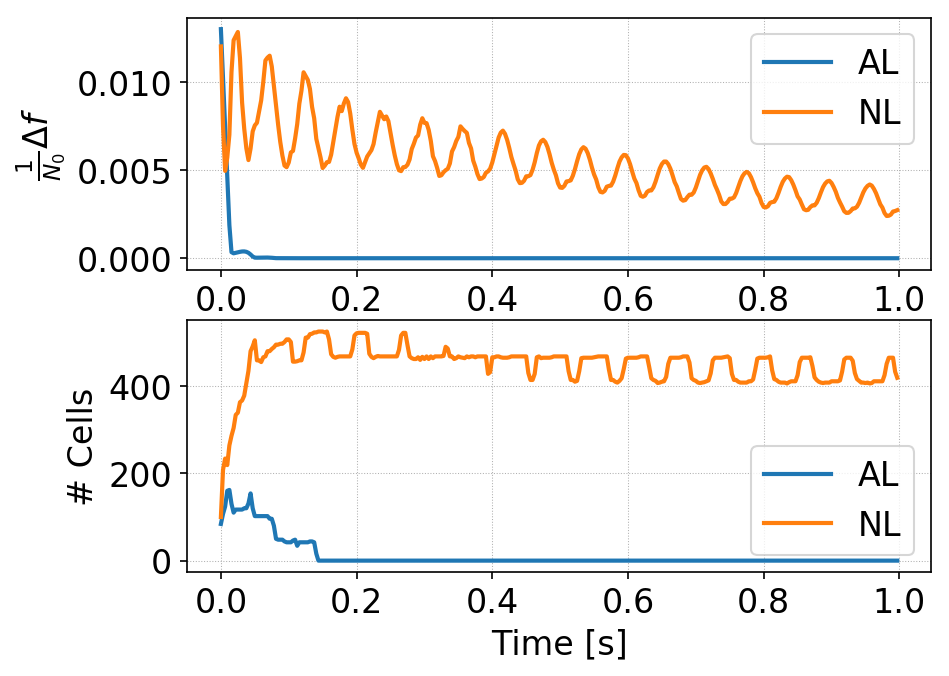
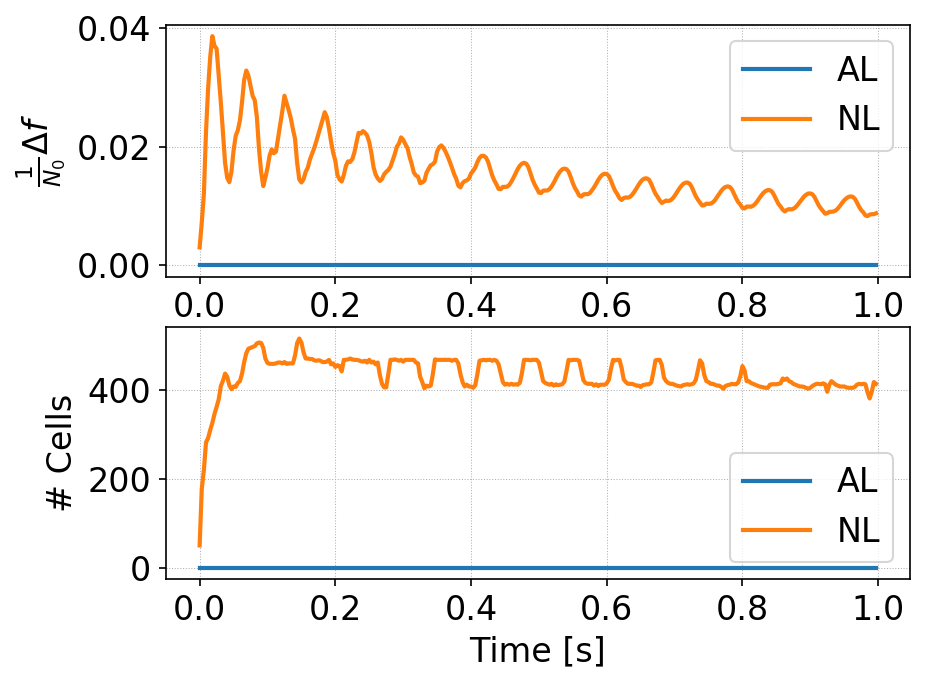
Updates to positivity results and notes

Changed region(s): [[0.0, 0.0, 1.0, 0.9941], [0.9375, 0.7145, 0.9688, 0.7456]]

diff --git a/je/je31/je31-antilim-adv.rst b/je/je31/je31-antilim-adv.rst
@@ -442,9 +442,7 @@ RK-stage.
   number of cells changed per-step (bottom) for standard DG (orange)
   and AL-DG (blue). The standard DG scheme needs constant correction
   to about 65% of the cells in each RK stage, while the AL-DG scheme
-  needs far fewer corrections and only at the start of the
-  simulation. Once the cylinder diffuses a little, the amount of
-  correction in the AL-DG scheme drops to zero.
+  needs no corrections at all.
 
   
 Square-top-hat advection test
@@ -524,32 +522,8 @@ RK-stage.
   number of cells changed per-step (bottom) for standard DG (orange)
   and AL-DG (blue). The standard DG scheme needs constant correction
   to about 65% of the cells in each RK stage, while the AL-DG scheme
-  needs far fewer corrections and only at the start of the
-  simulation. Once the cylinder diffuses a little, the amount of
-  correction in the AL-DG scheme drops to zero.
+  needs no corrections.
 
-Convergence of corrections with time-step
------------------------------------------
-
-The anti-limiter caps the extrapolated values to :math:`1/\sigma`,
-where the CFL number :math:`\sigma` is proportional to :math:`\Delta
-t`. Hence, reducing the time-step will reduce the amount of sub-cell
-diffusion corrections that are needed as the extra enhancements with
-maintain slope bounds better. To test this, we ran the square-top-hat
-simulation with :math:`1/2` and :math:`1/4` of the time-step. The
-ratio of the corrections, :math:`\Delta f`, to the smallest time-step
-values are shown below. As is clear, the errors reduce linearly with
-:math:`1/\Delta t`, consistent with the amount of enhancement added by
-the anti-limiter.
-
-.. figure:: m8-m7-m6-df-cmp.png
-  :width: 100%
-  :align: center
-
-  Ratio of sub-cell diffusion corrections, :math:`\Delta f` as a
-  function of time. The amount of correction needed reduces as the
-  time-step is reduced, consistent with the property that the amount
-  of enhancement allowed increases as the time-step is reduced.
   
 Conclusions
 -----------

diff --git a/sims-g2/pos-adv/README.md b/sims-g2/pos-adv/README.md
@@ -18,7 +18,8 @@ enhancer based DG schemes.
 - m4: Cylinder initial condition; with sub-cell diffusion.
 - m5: Square-hat initial condition; no sub-cell diffusion.
 - m6: Square-hat initial condition; with sub-cell diffusion.
-- m7: Same as m6, except dt increase
+- m7: Same as m6, except dt increasec
+- m8: IGNORE
 
 Convergence tests
 
